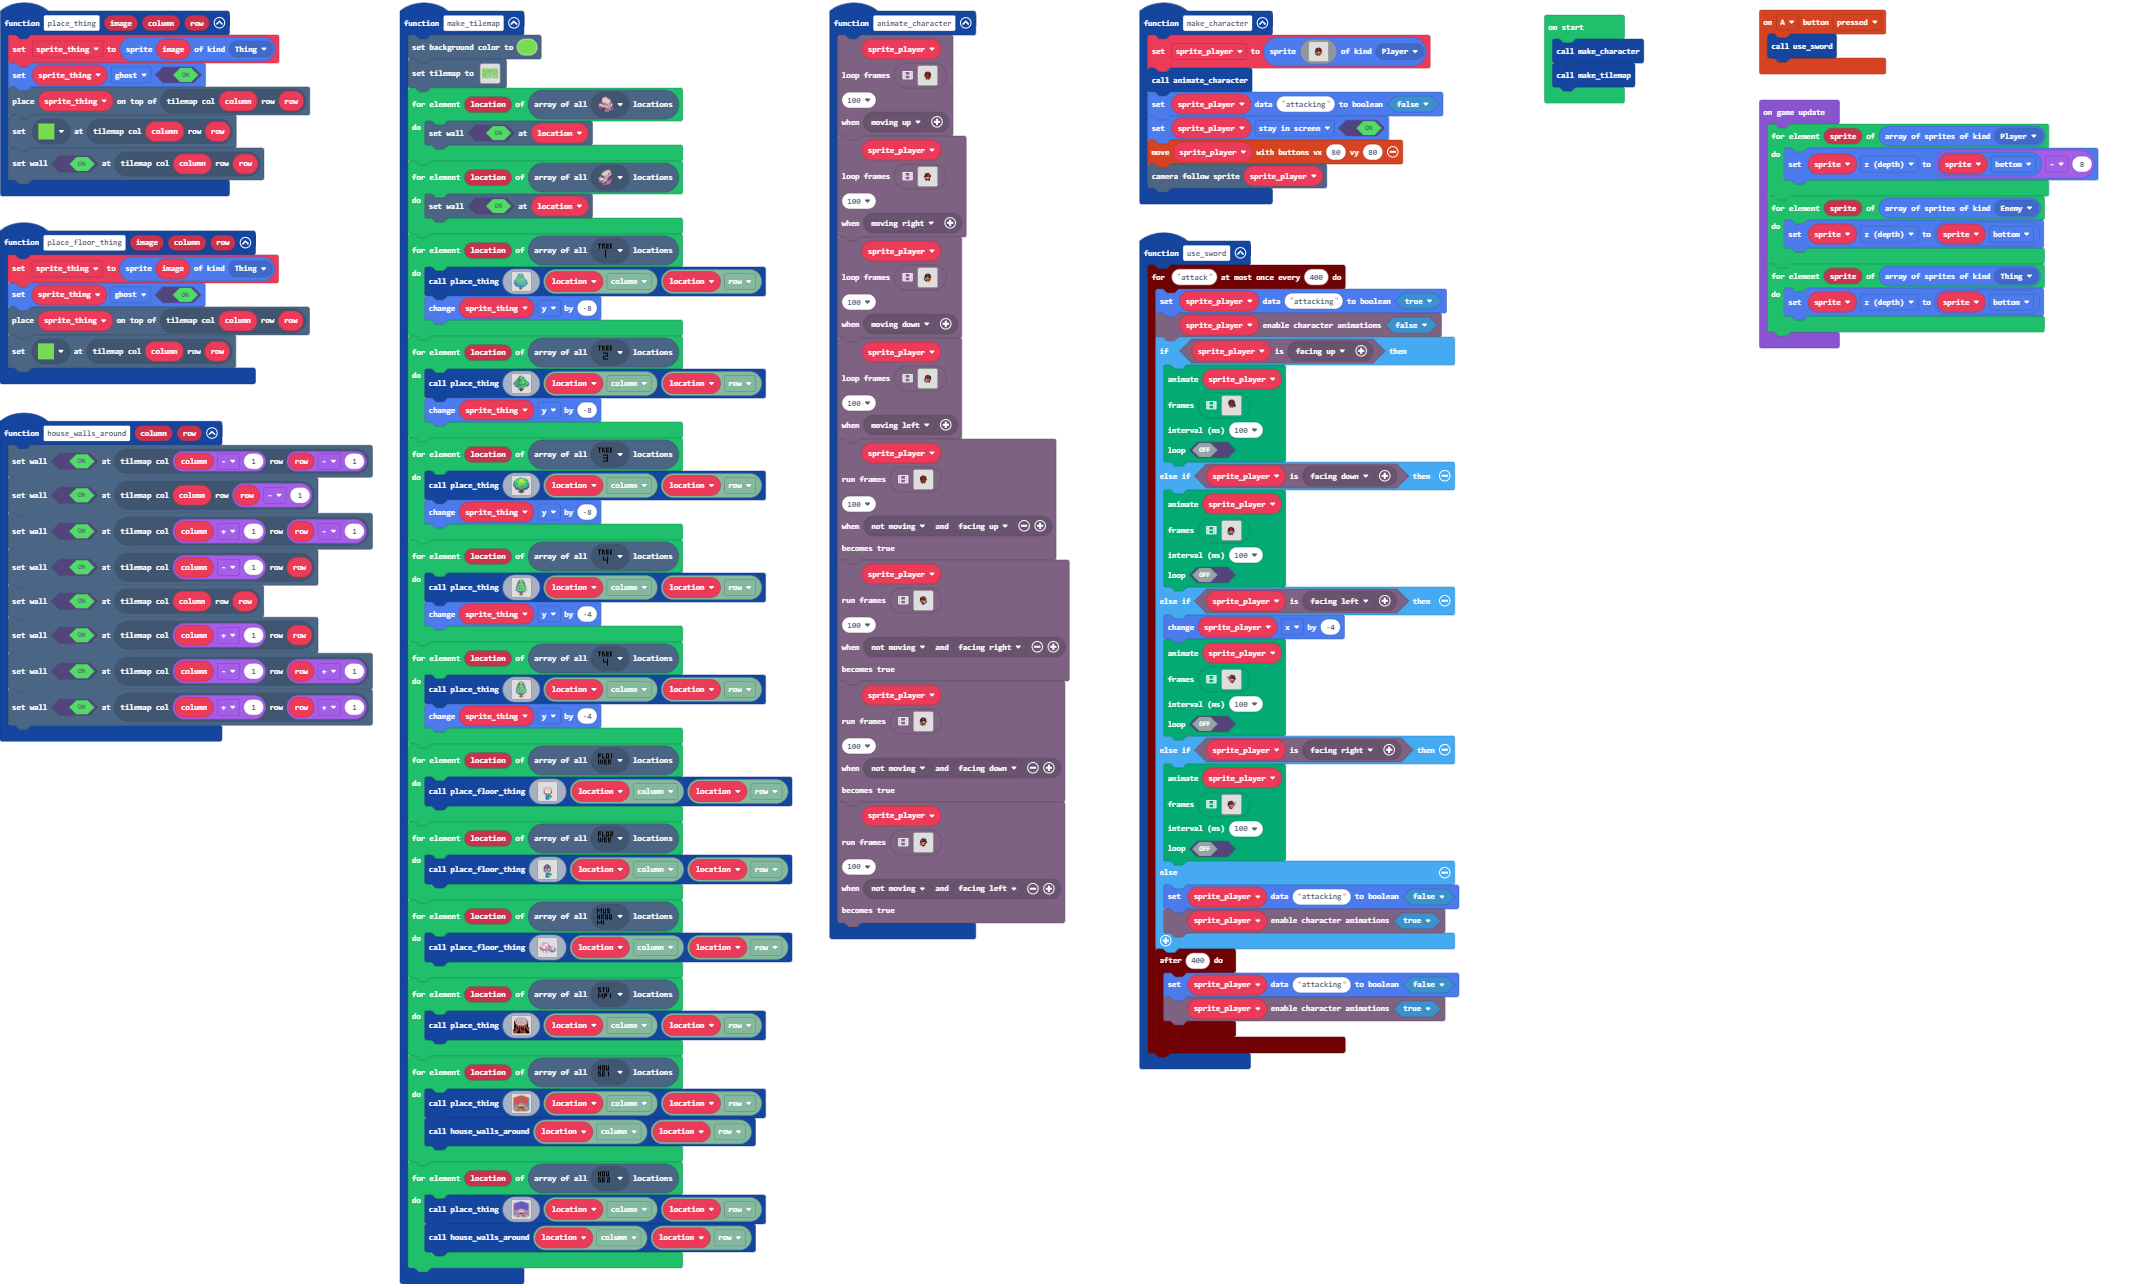
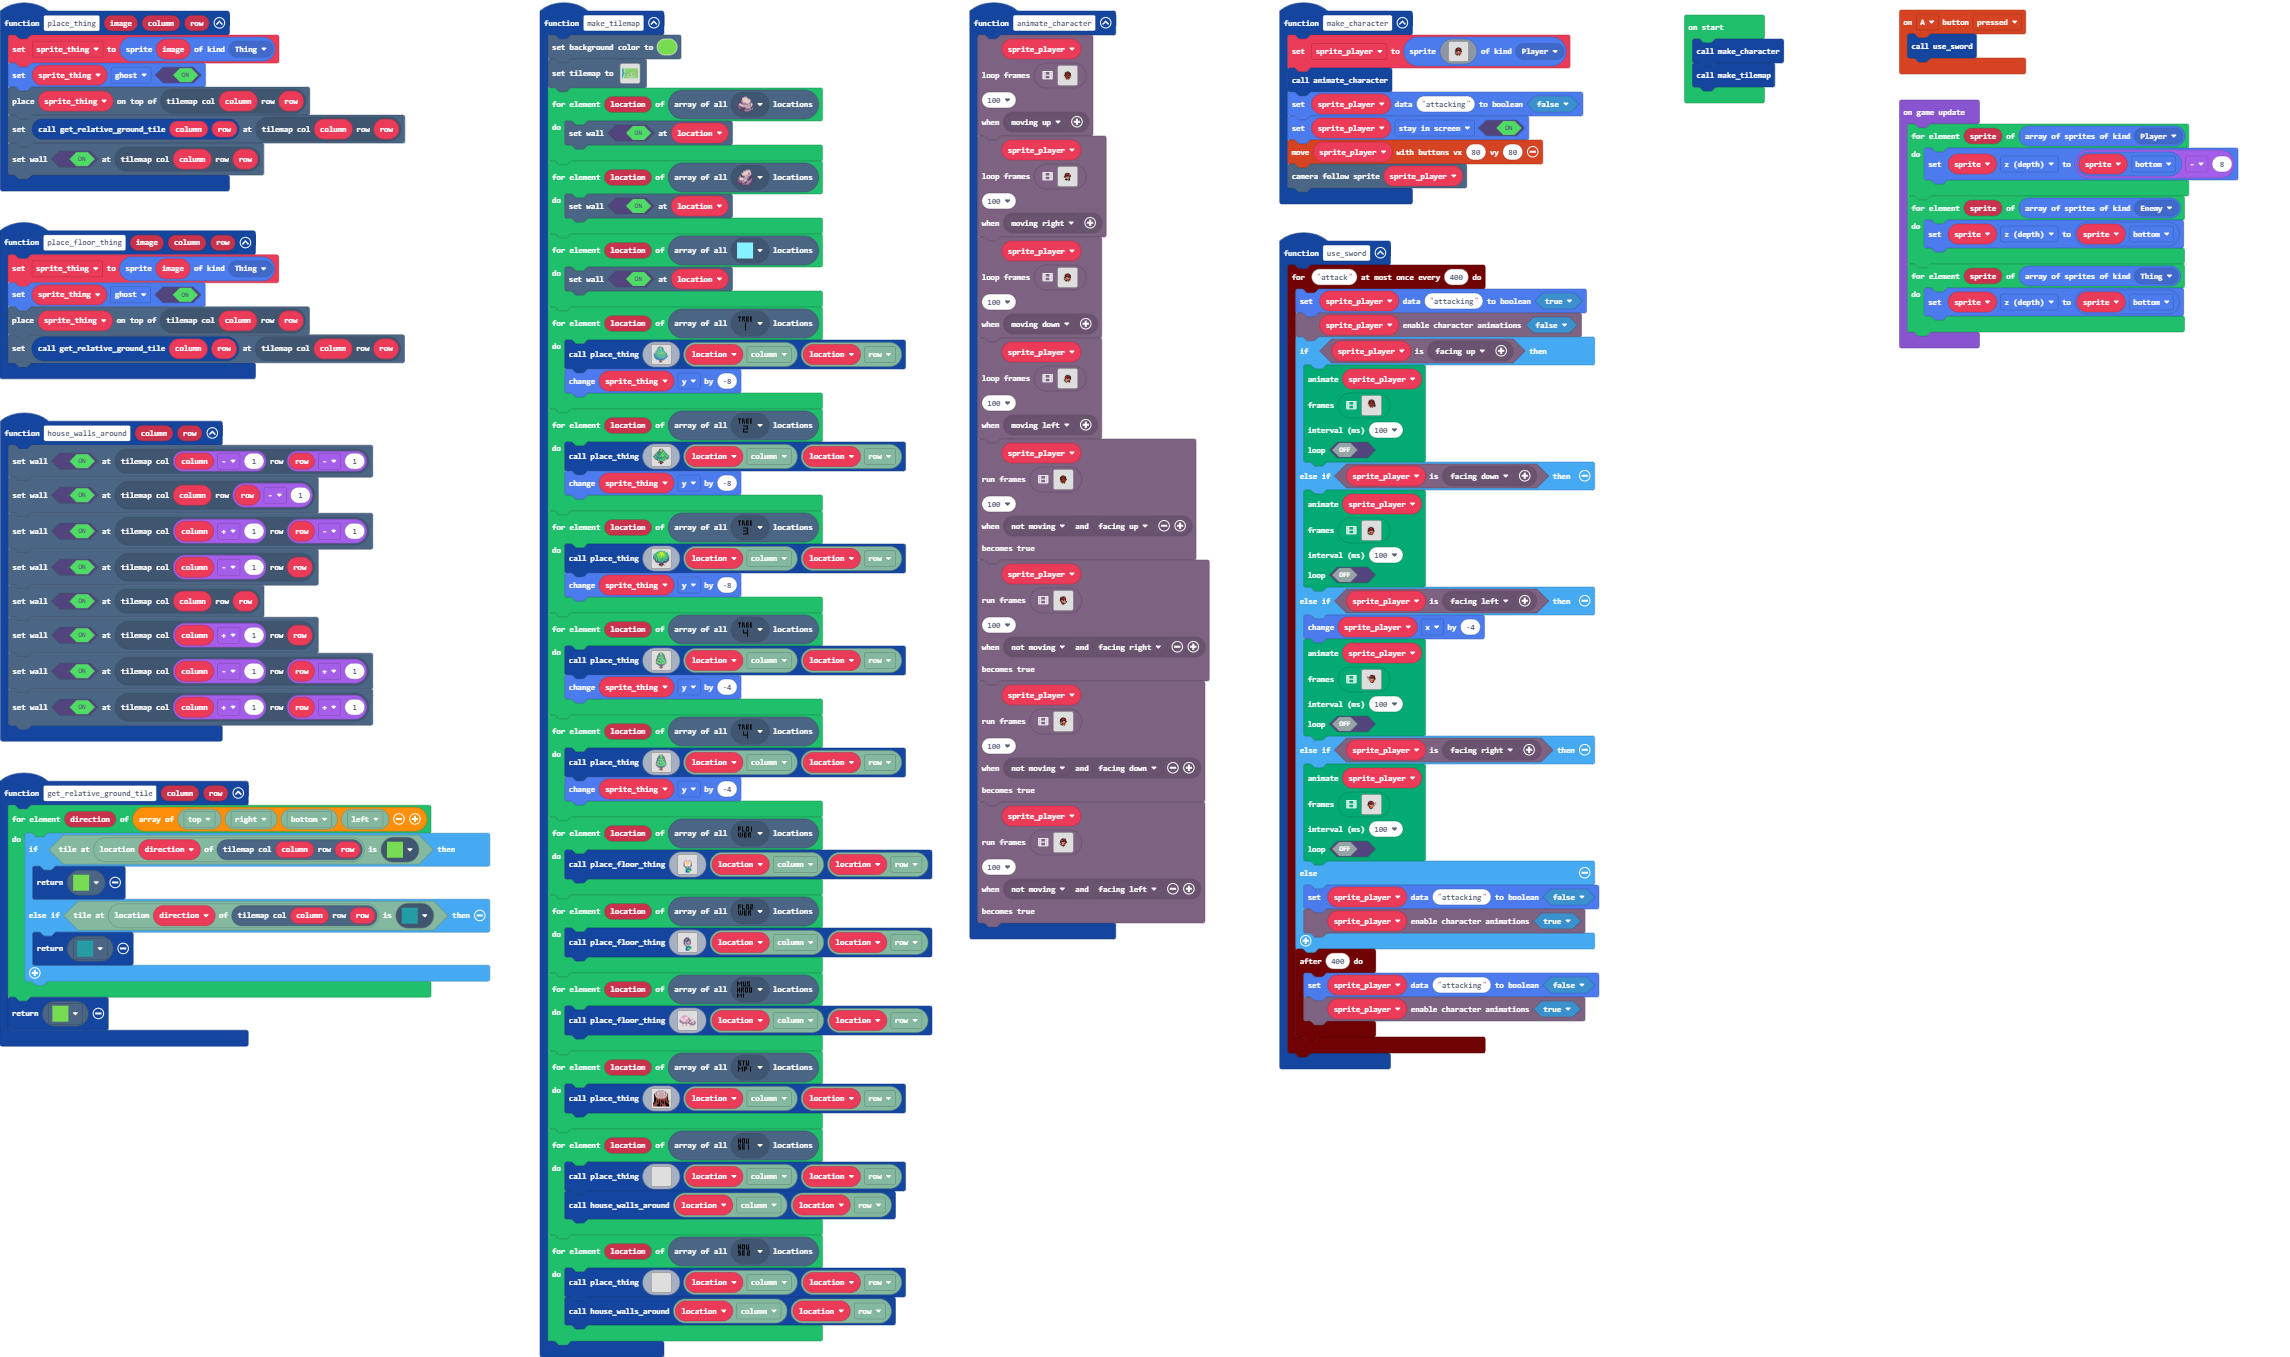
Add river

diff --git a/tilemap.g.ts b/tilemap.g.ts
@@ -24,11 +24,21 @@ namespace myTiles {
     export const tile4 = image.ofBuffer(hex``);
     //% fixedInstance jres blockIdentity=images._tile
     export const tile11 = image.ofBuffer(hex``);
+    //% fixedInstance jres blockIdentity=images._tile
+    export const tile12 = image.ofBuffer(hex``);
+    //% fixedInstance jres blockIdentity=images._tile
+    export const tile13 = image.ofBuffer(hex``);
+    //% fixedInstance jres blockIdentity=images._tile
+    export const tile14 = image.ofBuffer(hex``);
+    //% fixedInstance jres blockIdentity=images._tile
+    export const tile15 = image.ofBuffer(hex``);
+    //% fixedInstance jres blockIdentity=images._tile
+    export const tile16 = image.ofBuffer(hex``);
 
     helpers._registerFactory("tilemap", function(name: string) {
         switch(helpers.stringTrim(name)) {
             case "level_1":
[2 lines of base64/hex data omitted]
 ..................................................
 ..................................................
 ..................................................
@@ -59,7 +69,7 @@ namespace myTiles {
 ..................................................
 ..................................................
 ..................................................
-`, [myTiles.transparency16,myTiles.tile1,sprites.castle.tileGrass1,sprites.castle.tileGrass3,sprites.castle.tileGrass2,sprites.castle.rock0,sprites.castle.rock1,myTiles.tile2,myTiles.tile3,myTiles.tile5,myTiles.tile6,myTiles.tile7,myTiles.tile8,myTiles.tile9,myTiles.tile10,myTiles.tile4,myTiles.tile11,sprites.castle.tilePath5,sprites.castle.tilePath1,sprites.castle.tilePath2,sprites.castle.tilePath3,sprites.castle.tilePath8,sprites.castle.tilePath9,sprites.castle.tilePath4,sprites.castle.tilePath7,sprites.castle.tilePath6], TileScale.Sixteen);
+`, [myTiles.transparency16,myTiles.tile1,sprites.castle.tileGrass1,sprites.castle.tileGrass3,sprites.castle.tileGrass2,sprites.castle.rock0,sprites.castle.rock1,myTiles.tile2,myTiles.tile3,myTiles.tile5,myTiles.tile6,myTiles.tile7,myTiles.tile8,myTiles.tile9,myTiles.tile10,myTiles.tile4,myTiles.tile11,sprites.castle.tilePath5,sprites.castle.tilePath1,sprites.castle.tilePath2,sprites.castle.tilePath3,sprites.castle.tilePath8,sprites.castle.tilePath9,sprites.castle.tilePath4,sprites.castle.tilePath7,sprites.castle.tilePath6,myTiles.tile12,myTiles.tile13,sprites.castle.tileDarkGrass3,sprites.castle.tileDarkGrass2,myTiles.tile14,myTiles.tile15,myTiles.tile16], TileScale.Sixteen);
         }
         return null;
     })
@@ -89,6 +99,16 @@ namespace myTiles {
             case "tile4":return tile4;
             case "house_2":
             case "tile11":return tile11;
+            case "water":
+            case "tile12":return tile12;
+            case "dark_grass":
+            case "tile13":return tile13;
+            case "wood_plank_water0":
+            case "tile14":return tile14;
+            case "wood_plank__grass0":
+            case "tile15":return tile15;
+            case "wood_plank_dark_grass":
+            case "tile16":return tile16;
         }
         return null;
     })

diff --git a/main.ts b/main.ts
@@ -15,8 +15,18 @@ function place_thing (image2: Image, column: number, row: number) {
     sprite_thing = sprites.create(image2, SpriteKind.Thing)
     sprite_thing.setFlag(SpriteFlag.Ghost, true)
     tiles.placeOnTile(sprite_thing, tiles.getTileLocation(column, row))
-    tiles.setTileAt(tiles.getTileLocation(column, row), assets.tile`grass`)
+    tiles.setTileAt(tiles.getTileLocation(column, row), get_relative_ground_tile(column, row))
     tiles.setWallAt(tiles.getTileLocation(column, row), true)
+}
+function get_relative_ground_tile (column: number, row: number) {
+    for (let direction of [CollisionDirection.Top, CollisionDirection.Right, CollisionDirection.Bottom, CollisionDirection.Left]) {
+        if (tiles.tileIs(tiles.locationInDirection(tiles.getTileLocation(column, row), direction), assets.tile`grass`)) {
+            return assets.tile`grass`
+        } else if (tiles.tileIs(tiles.locationInDirection(tiles.getTileLocation(column, row), direction), assets.tile`dark_grass`)) {
+            return assets.tile`dark_grass`
+        }
+    }
+    return assets.tile`grass`
 }
 controller.A.onEvent(ControllerButtonEvent.Pressed, function () {
     use_sword()
@@ -25,7 +35,7 @@ function place_floor_thing (image2: Image, column: number, row: number) {
     sprite_thing = sprites.create(image2, SpriteKind.Thing)
     sprite_thing.setFlag(SpriteFlag.Ghost, true)
     tiles.placeOnTile(sprite_thing, tiles.getTileLocation(column, row))
-    tiles.setTileAt(tiles.getTileLocation(column, row), assets.tile`grass`)
+    tiles.setTileAt(tiles.getTileLocation(column, row), get_relative_ground_tile(column, row))
 }
 function make_character () {
     sprite_player = sprites.create(assets.image`character_front`, SpriteKind.Player)
@@ -87,6 +97,9 @@ function make_tilemap () {
     for (let location of tiles.getTilesByType(sprites.castle.rock1)) {
         tiles.setWallAt(location, true)
     }
+    for (let location of tiles.getTilesByType(assets.tile`water`)) {
+        tiles.setWallAt(location, true)
+    }
     for (let location of tiles.getTilesByType(assets.tile`tree_1`)) {
         place_thing(assets.image`tree_1`, tiles.locationXY(location, tiles.XY.column), tiles.locationXY(location, tiles.XY.row))
         sprite_thing.y += -8
@@ -120,11 +133,45 @@ function make_tilemap () {
         place_thing(assets.image`stump_1`, tiles.locationXY(location, tiles.XY.column), tiles.locationXY(location, tiles.XY.row))
     }
     for (let location of tiles.getTilesByType(assets.tile`house_1`)) {
-        place_thing(assets.image`house_1`, tiles.locationXY(location, tiles.XY.column), tiles.locationXY(location, tiles.XY.row))
+        place_thing(img`
+            . . . . . . . . . . . . . . . . 
+            . . . . . . . . . . . . . . . . 
+            . . . . . . . . . . . . . . . . 
+            . . . . . . . . . . . . . . . . 
+            . . . . . . . . . . . . . . . . 
+            . . . . . . . . . . . . . . . . 
+            . . . . . . . . . . . . . . . . 
+            . . . . . . . . . . . . . . . . 
+            . . . . . . . . . . . . . . . . 
+            . . . . . . . . . . . . . . . . 
+            . . . . . . . . . . . . . . . . 
+            . . . . . . . . . . . . . . . . 
+            . . . . . . . . . . . . . . . . 
+            . . . . . . . . . . . . . . . . 
+            . . . . . . . . . . . . . . . . 
+            . . . . . . . . . . . . . . . . 
+            `, tiles.locationXY(location, tiles.XY.column), tiles.locationXY(location, tiles.XY.row))
         house_walls_around(tiles.locationXY(location, tiles.XY.column), tiles.locationXY(location, tiles.XY.row))
     }
     for (let location of tiles.getTilesByType(assets.tile`house_2`)) {
-        place_thing(assets.image`house_2`, tiles.locationXY(location, tiles.XY.column), tiles.locationXY(location, tiles.XY.row))
+        place_thing(img`
+            . . . . . . . . . . . . . . . . 
+            . . . . . . . . . . . . . . . . 
+            . . . . . . . . . . . . . . . . 
+            . . . . . . . . . . . . . . . . 
+            . . . . . . . . . . . . . . . . 
+            . . . . . . . . . . . . . . . . 
+            . . . . . . . . . . . . . . . . 
+            . . . . . . . . . . . . . . . . 
+            . . . . . . . . . . . . . . . . 
+            . . . . . . . . . . . . . . . . 
+            . . . . . . . . . . . . . . . . 
+            . . . . . . . . . . . . . . . . 
+            . . . . . . . . . . . . . . . . 
+            . . . . . . . . . . . . . . . . 
+            . . . . . . . . . . . . . . . . 
+            . . . . . . . . . . . . . . . . 
+            `, tiles.locationXY(location, tiles.XY.column), tiles.locationXY(location, tiles.XY.row))
         house_walls_around(tiles.locationXY(location, tiles.XY.column), tiles.locationXY(location, tiles.XY.row))
     }
 }
